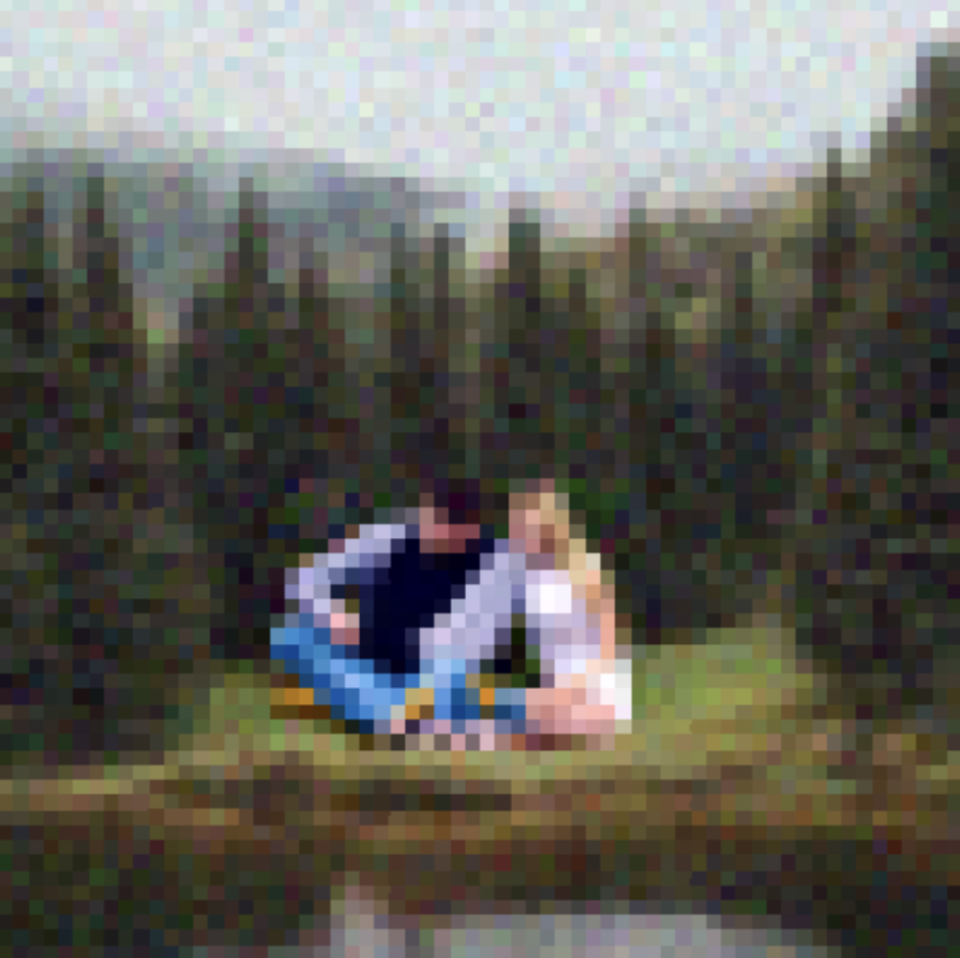
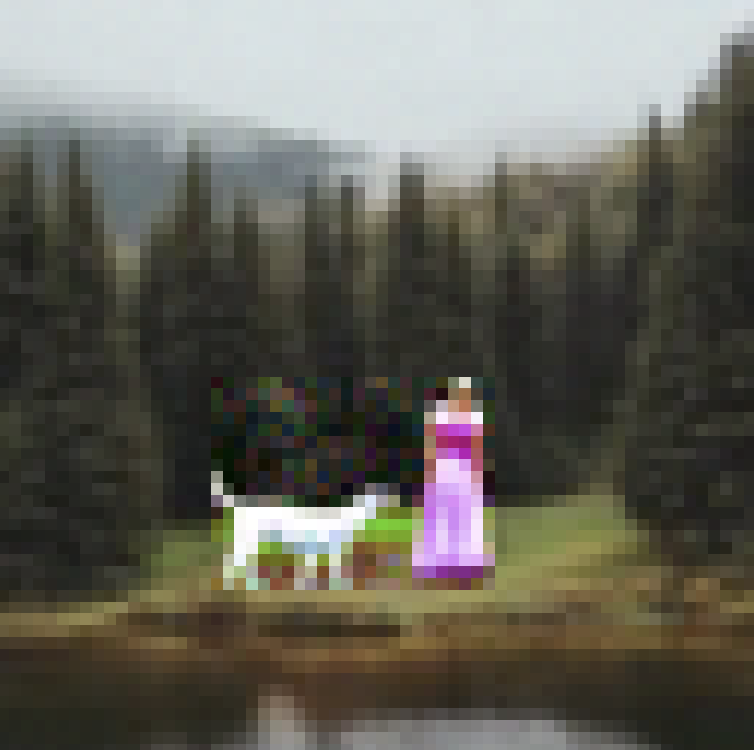
inpaint

diff --git a/proj5/index.html b/proj5/index.html
@@ -43,7 +43,7 @@
 			<li><a href="#part1.7">1.9: Hybrid Images</a></li>
         </ul>
       </li>
-      <li><a href="#part11">Part B: Flow Matching from Scratch</a></li>
+      <li><a href="#partB">Part B: Flow Matching from Scratch</a></li>
       
     </ul>  
   </nav>
@@ -243,6 +243,7 @@
 		</div>
 		<div class="img-container" style="align-items:center; justify-content:center;">
 			<img src="img7/camp_mask_res.png" height="200px" alt="cam_conv_dx">
+			<img src="img7/camp_mask_res2.png" height="200px" alt="cam_conv_dx">
 		</div>
 		<p>Inpainting with a Rainbow:</p>
 		<div class="img-container" style="align-items:center; justify-content:center;">
